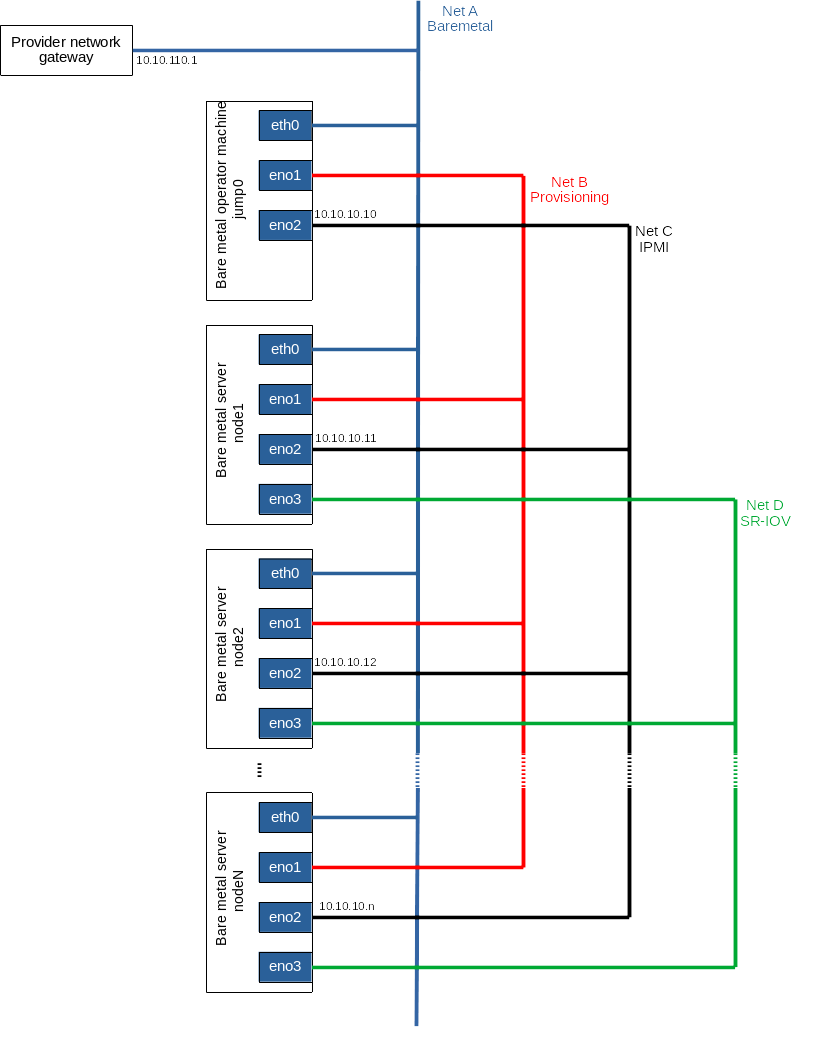
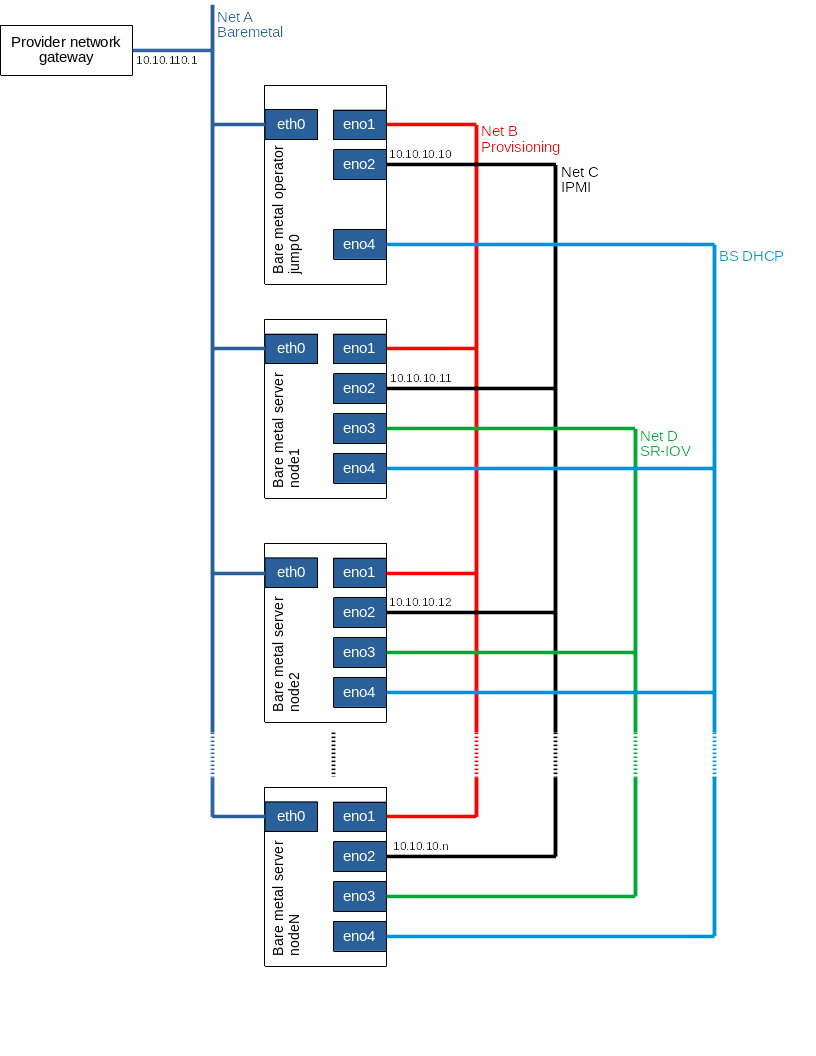
Reconcile IF3, eno3, and BS_DHCP in README.md

Changed region(s): [[0.2451, 0.0, 0.9804, 0.9688]]

diff --git a/README.md b/README.md
@@ -76,9 +76,10 @@ No prerequisites for ICN blueprint.
 - Bare metal servers: four network interfaces, including one IPMI interface.
 - Four or more hubs, with cabling, to connect four networks.
 
+(Tested as below)
 Hostname | CPU Model | Memory | Storage | 1GbE: NIC#, VLAN, (Connected extreme 480 switch) | 10GbE: NIC# VLAN, Network (Connected with IZ1 switch)
 ---------|-----------|--------|---------|--------------------------------------------------|------------------------------------------------------
-jump0 | Intel 2xE5-2699 | 64GB | 3TB (Sata)<br/>180 (SSD) | eth0: VLAN 110 (DMZ)<br/>eno1: VLAN 111 (Admin) | eno2: VLAN 112 (Private) VLAN 114 (Management)<br/>IF3: VLAN 113 (Storage) VLAN 1115 (Public)
+jump0 | Intel 2xE5-2699 | 64GB | 3TB (Sata)<br/>180 (SSD) | eth0: VLAN 110<br/>eno1: VLAN 111<br/>eno2: VLAN 110 | eno4: VLAN 112
 
 #### Jump Server Software Requirements
 ICN supports Ubuntu 18.04. The ICN blueprint installs all required
@@ -100,9 +101,9 @@ Net C to provision the bare metal servers to do the OS provisioning.
 (Tested as below)
 Hostname | CPU Model | Memory | Storage | 1GbE: NIC#, VLAN, (Connected extreme 480 switch) | 10GbE: NIC# VLAN, Network (Connected with IZ1 switch)
 ---------|-----------|--------|---------|--------------------------------------------------|------------------------------------------------------
-node1 | Intel 2xE5-2699 | 64GB | 3TB (Sata)<br/>180 (SSD) | eth0: VLAN 110 (DMZ)<br/>eno1: VLAN 111 (Admin) | eno2: VLAN 112 (Private) VLAN 114 (Management)<br/>IF3: VLAN 113 (Storage) VLAN 1115 (Public)
-node2 | Intel 2xE5-2699 | 64GB | 3TB (Sata)<br/>180 (SSD) | eth0: VLAN 110 (DMZ)<br/>eno1: VLAN 111 (Admin) | eno2: VLAN 112 (Private) VLAN 114 (Management)<br/>IF3: VLAN 113 (Storage) VLAN 1115 (Public)
-node3 | Intel 2xE5-2699 | 64GB | 3TB (Sata)<br/>180 (SSD) | eth0: VLAN 110 (DMZ)<br/>eno1: VLAN 111 (Admin) | eno2: VLAN 112 (Private) VLAN 114 (Management)<br/>IF3: VLAN 113 (Storage) VLAN 1115 (Public)
+node1 | Intel 2xE5-2699 | 64GB | 3TB (Sata)<br/>180 (SSD) | eth0: VLAN 110<br/>eno1: VLAN 111<br/>eno2: VLAN 110 | eno3: VLAN 113<br/>eno4: VLAN 112
+node2 | Intel 2xE5-2699 | 64GB | 3TB (Sata)<br/>180 (SSD) | eth0: VLAN 110<br/>eno1: VLAN 111<br/>eno2: VLAN 110 | eno3: VLAN 113<br/>eno4: VLAN 112
+node3 | Intel 2xE5-2699 | 64GB | 3TB (Sata)<br/>180 (SSD) | eth0: VLAN 110<br/>eno1: VLAN 111<br/>eno2: VLAN 110 | eno3: VLAN 113<br/>eno4: VLAN 112
 
 #### Compute Server Software Requirements
 The Local Controller will install all the software in compute servers
@@ -192,37 +193,30 @@ The user will find the network configuration file named as
 
 #Local Controller - Bootstrap cluster DHCP connection
 #BS_DHCP_INTERFACE defines the interfaces, to which ICN DHCP deployment will bind
-#e.g. export BS_DHCP_INTERFACE="ens513f0"
-export BS_DHCP_INTERFACE=
+export BS_DHCP_INTERFACE="eno4"
 
 #BS_DHCP_INTERFACE_IP defines the IPAM for the ICN DHCP to be managed.
-#e.g. export BS_DHCP_INTERFACE_IP="172.31.1.1/24"
-export BS_DHCP_INTERFACE_IP=
+export BS_DHCP_INTERFACE_IP="172.31.1.1/24"
 
 #Edge Location Provider Network configuration
 #Net A - Provider Network
 #If provider having specific Gateway and DNS server details in the edge location
 #export PROVIDER_NETWORK_GATEWAY="10.10.110.1"
-export PROVIDER_NETWORK_GATEWAY=
 #export PROVIDER_NETWORK_DNS="8.8.8.8"
-export PROVIDER_NETWORK_DNS=
 
 #Ironic Metal3 settings for provisioning network
 #Interface to which Ironic provision network to be connected
 #Net B - Provisioning Network
-#e.g. export IRONIC_INTERFACE="eno1"
-export IRONIC_INTERFACE=
+export IRONIC_INTERFACE="eno1"
 
 #Ironic Metal3 setting for IPMI LAN Network
 #Interface to which Ironic IPMI LAN should bind
 #Net C - IPMI LAN Network
-#e.g. export IRONIC_IPMI_INTERFACE="eno2"
-export IRONIC_IPMI_INTERFACE=
+export IRONIC_IPMI_INTERFACE="eno2"
 
 #Interface IP for the IPMI LAN, ICN verfiy the LAN Connection is active or not
-#e.g. export IRONIC_IPMI_INTERFACE_IP="10.10.10.10"
 #Net C - IPMI LAN Network
-export IRONIC_IPMI_INTERFACE_IP=
+export IRONIC_IPMI_INTERFACE_IP="10.10.10.10"
 ```
 
 #### Running
